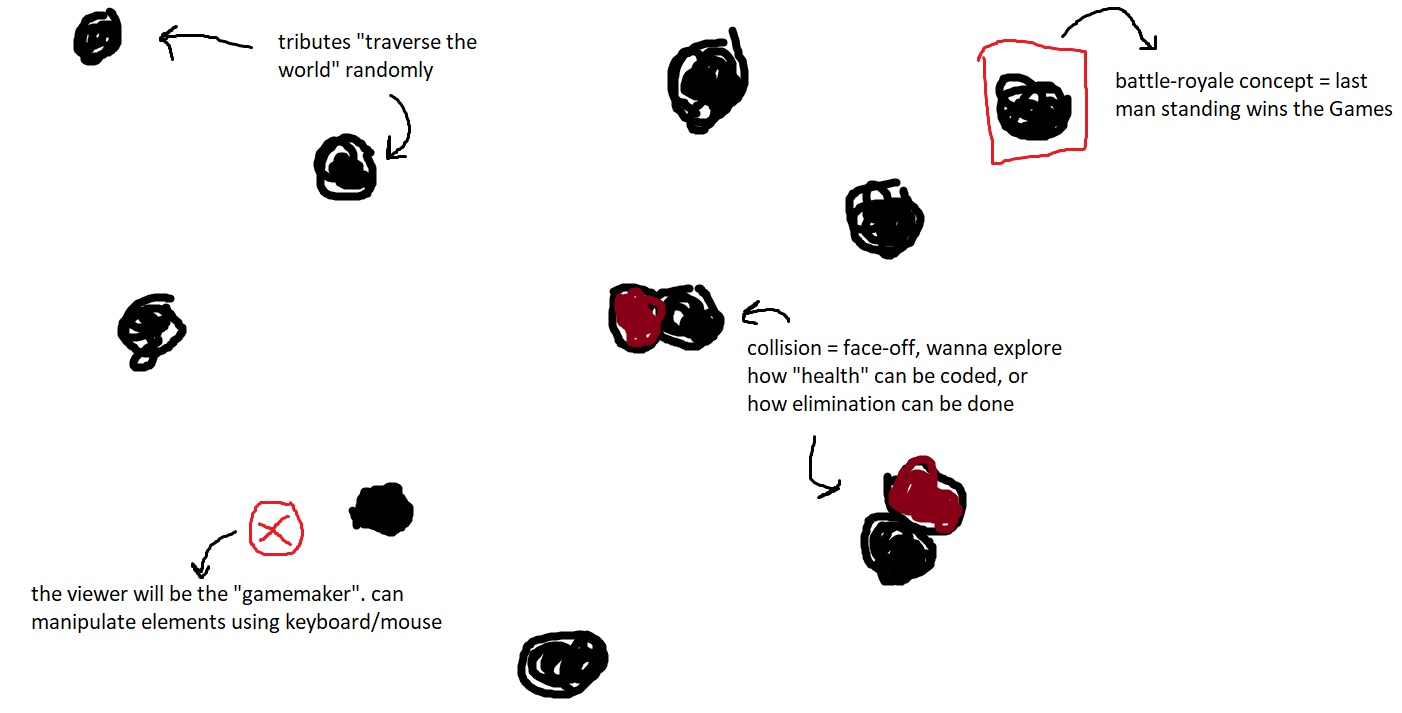
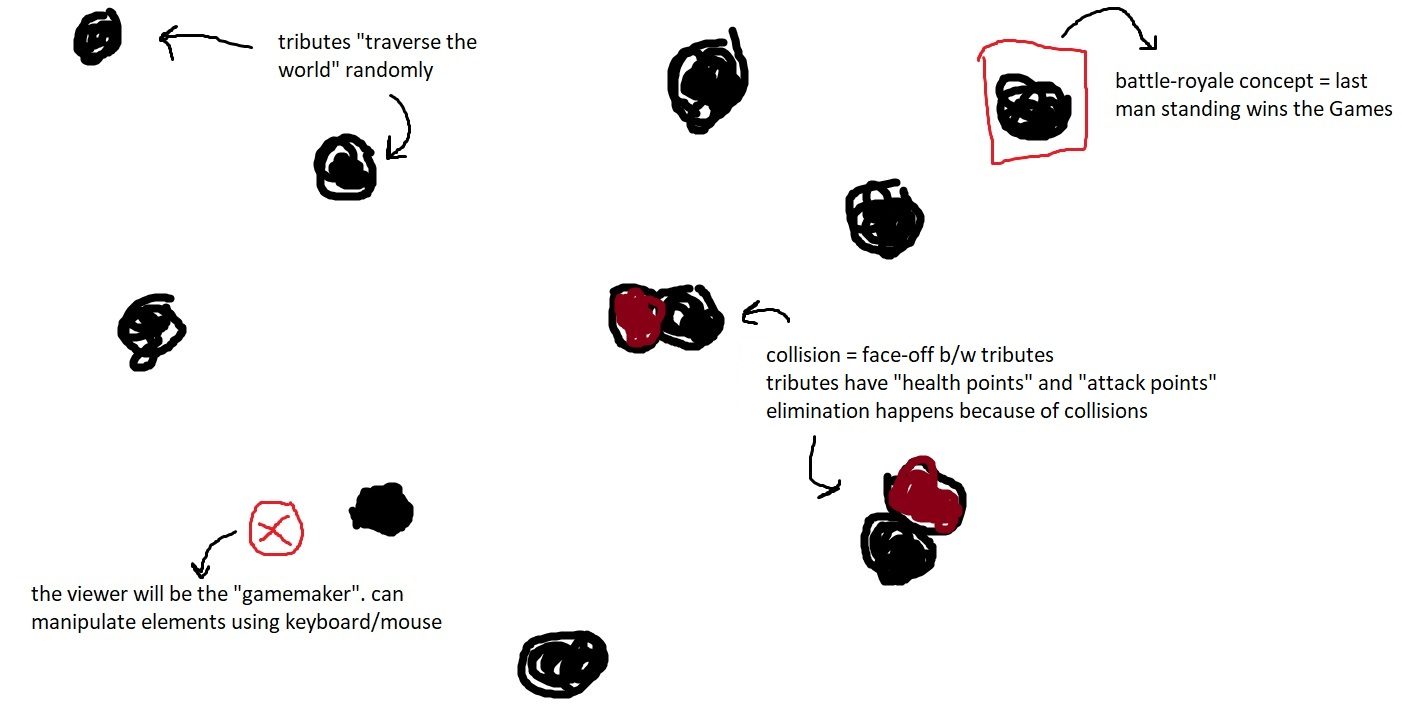
v2.1 - ReadMe Updated

Changed region(s): [[0.5214, 0.4628, 0.8588, 0.5863]]

diff --git a/README.md b/README.md
@@ -1,1 +1,27 @@
-# HungerGames
+# HUNGER GAMES
+▶▶ **Technologies Used:** JavaScript, p5.js
+
+### PART 1 - THE CONCEPT
+I've chosen to depict the concept of ***The Hunger Games***, a series of novels by Suzanne Collins via this project.
+
+*The Hunger Games* universe is a dystopia set in Panem, a North American country consisting of the wealthy Capitol, and 13 districts in varying states of poverty. Every year, children from the first 12 districts are selected via lottery to participate in a mandatory & televised battle-royale death match called The Hunger Games.
+
+<p align= "center">
+<img src= "./HungerGames_Poster.jpg" width=60%> </p>
+
+In the novel (and the movie adaptations), these "Games" are designed by someone called the "Gamemaker", a highly coveted title, and personally hand-picked by the President of Panem. My idea is something along the lines of this:
+
+The user interacting with this project is the *Gamemaker*, and they'll be "tracking" everything via this interface or ***interactive*** dashboard. I've developed a version that would replicate the original's feel, and also bring forth the battle-royale aspect of it.
+
+### PART 2 - THE SETUP
+The "tributes" start off in a circle (as they do in the books/movies), and wander about the canvas in a random fashion. I've implemented a time-based traversing method i.e. the positions of "tributes" (represented by ellipses) gets updated after each passing second, mimicking a radar/sonar map.
+
+<p align= "center">
+<img src= "./InitialSketch_Tributes.jpg" width=30%>
+<br>
+Figure 1.1: "Tributes" Starting-off Position </p>
+<br>
+<p align= "center">
+<img src= "./InitialSketch_Logic.jpg" width=60%>
+<br>
+Figure 1.2: Rough Digital Sketch of Project Implementation </p>
